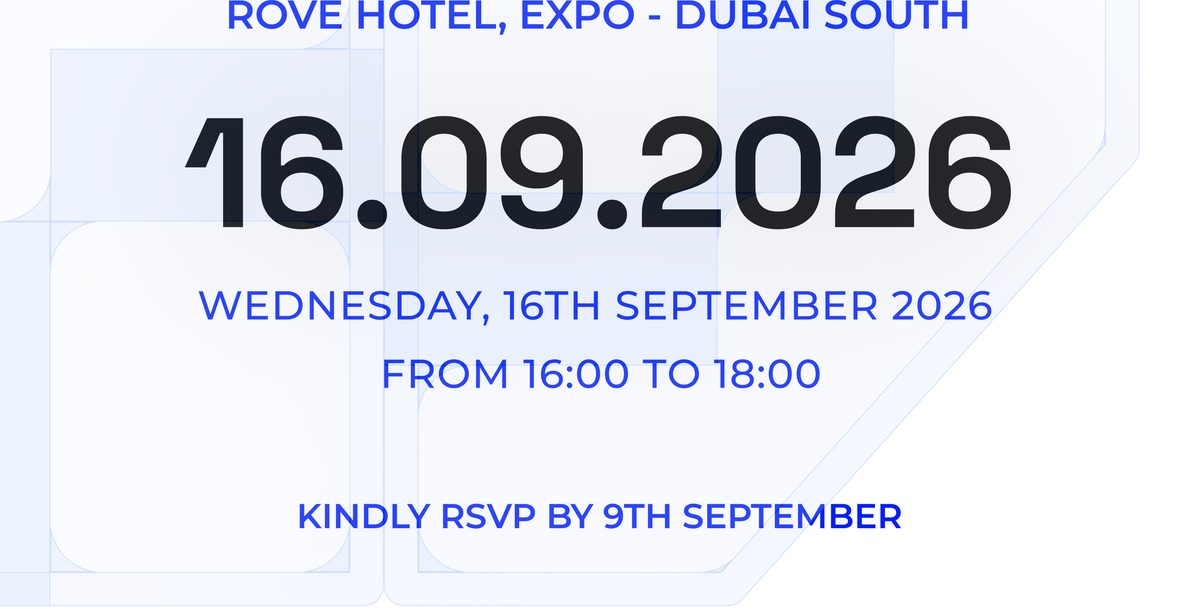
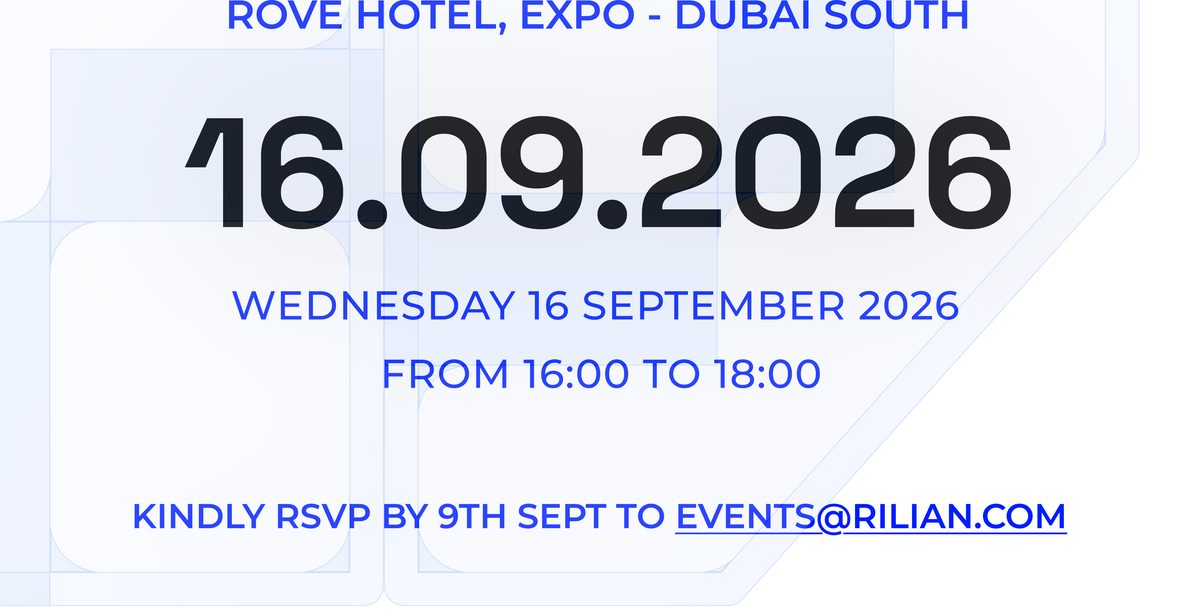
GISEC header line, updated invite artwork
Header and preheader now read 'Join Us at GISEC'. Re-sliced the revised
card export (date line reworded, RSVP address back in the artwork) and
repointed all four assets at the new Cloudinary versions.

diff --git a/invite.html b/invite.html
@@ -46,7 +46,7 @@
 <body id="body" style="margin:0;padding:0;width:100%;background-color:#EEF3FC;">
 
   <div style="display:none;font-size:1px;line-height:1px;max-height:0;max-width:0;opacity:0;overflow:hidden;mso-hide:all;font-family:Arial,sans-serif;color:#EEF3FC;">
-    Invitation for VIP Event &#183; Wednesday 16 September 2026, 16:00&#8211;18:00, Rove Hotel, Expo Dubai South.
+    Join Us at GISEC &#183; Wednesday 16 September 2026, 16:00&#8211;18:00, Rove Hotel, Expo Dubai South.
     &#847;&zwnj;&nbsp;&#847;&zwnj;&nbsp;&#847;&zwnj;&nbsp;&#847;&zwnj;&nbsp;&#847;&zwnj;&nbsp;&#847;&zwnj;&nbsp;&#847;&zwnj;&nbsp;&#847;&zwnj;&nbsp;
   </div>
 
@@ -57,7 +57,7 @@
         <table role="presentation" class="sm-full" cellpadding="0" cellspacing="0" border="0" width="600" style="width:600px;max-width:600px;">
           <tr>
             <td class="dm-muted" align="center" style="padding:0 20px 14px 20px;font-family:'Montserrat','Segoe UI','Helvetica Neue',Helvetica,Arial,sans-serif;font-size:12px;line-height:1.6;font-weight:500;color:#151519;">
-              Invitation for VIP Event &#183; Wednesday 16 September 2026
+              Join Us at GISEC &#183; Wednesday 16 September 2026
             </td>
           </tr>
         </table>
@@ -69,18 +69,18 @@
           <tr>
             <td align="center" style="font-size:0;line-height:0;">
               <a href="mailto:events@rilian.com?subject=RSVP%3A%20OT%20and%20Critical%20Infrastructure%20Security%2C%2016%20Sept">
-                <img src="https://res.cloudinary.com/dfw2ve6i6/image/upload/v1787237570/card-top_ilc8pw.jpg" class="sm-card" width="600" height="349" alt="You're cordially invited. For Those Shaping the Future of OT and Critical Infrastructure Security" style="width:600px;max-width:100%;height:auto;display:block;border:0;" />
+                <img src="https://res.cloudinary.com/dfw2ve6i6/image/upload/v1787280109/card-top_lgupyi.jpg" class="sm-card" width="600" height="349" alt="You're cordially invited. For Those Shaping the Future of OT and Critical Infrastructure Security" style="width:600px;max-width:100%;height:auto;display:block;border:0;" />
               </a>
             </td>
           </tr>
 
           <!-- RSVP button, sitting in the card's centre gap; pattern continues behind it -->
           <tr>
-            <td class="sm-band dm-band" align="center" valign="middle" bgcolor="#f5f8fd" background="https://res.cloudinary.com/dfw2ve6i6/image/upload/v1787237569/card-band_az32ww.jpg"
-                style="padding:42px 20px;background-color:#f5f8fd;background-image:url('https://res.cloudinary.com/dfw2ve6i6/image/upload/v1787237569/card-band_az32ww.jpg');background-size:100% 100%;background-repeat:no-repeat;background-position:center center;">
+            <td class="sm-band dm-band" align="center" valign="middle" bgcolor="#f5f8fd" background="https://res.cloudinary.com/dfw2ve6i6/image/upload/v1787280109/card-band_v6fg9h.jpg"
+                style="padding:42px 20px;background-color:#f5f8fd;background-image:url('https://res.cloudinary.com/dfw2ve6i6/image/upload/v1787280109/card-band_v6fg9h.jpg');background-size:100% 100%;background-repeat:no-repeat;background-position:center center;">
               <!--[if gte mso 9]>
               <v:rect xmlns:v="urn:schemas-microsoft-com:vml" fill="true" stroke="false" style="width:600px;height:146px;">
-              <v:fill type="frame" src="https://res.cloudinary.com/dfw2ve6i6/image/upload/v1787237569/card-band_az32ww.jpg" color="#f5f8fd" />
+              <v:fill type="frame" src="https://res.cloudinary.com/dfw2ve6i6/image/upload/v1787280109/card-band_v6fg9h.jpg" color="#f5f8fd" />
               <v:textbox inset="0,0,0,0"><![endif]-->
               <!--[if mso]>
               <v:rect xmlns:v="urn:schemas-microsoft-com:vml" xmlns:w="urn:schemas-microsoft-com:office:word" href="mailto:events@rilian.com?subject=RSVP%3A%20OT%20and%20Critical%20Infrastructure%20Security%2C%2016%20Sept" fillcolor="#001DFE" stroke="f" style="width:160px;height:61px;">
@@ -100,7 +100,7 @@
           <tr>
             <td align="center" style="font-size:0;line-height:0;">
               <a href="mailto:events@rilian.com?subject=RSVP%3A%20OT%20and%20Critical%20Infrastructure%20Security%2C%2016%20Sept">
-                <img src="https://res.cloudinary.com/dfw2ve6i6/image/upload/v1787237569/card-bottom_ngwdxy.jpg" class="sm-card" width="600" height="304" alt="Rove Hotel, Expo &#8211; Dubai South. 16.09.2026, Wednesday 16 September 2026, 16:00 to 18:00. Kindly RSVP by 9 September to events@rilian.com" style="width:600px;max-width:100%;height:auto;display:block;border:0;" />
+                <img src="https://res.cloudinary.com/dfw2ve6i6/image/upload/v1787280109/card-bottom_og14ot.jpg" class="sm-card" width="600" height="304" alt="Rove Hotel, Expo &#8211; Dubai South. 16.09.2026, Wednesday 16 September 2026, 16:00 to 18:00. Kindly RSVP by 9 September to events@rilian.com" style="width:600px;max-width:100%;height:auto;display:block;border:0;" />
               </a>
             </td>
           </tr>
